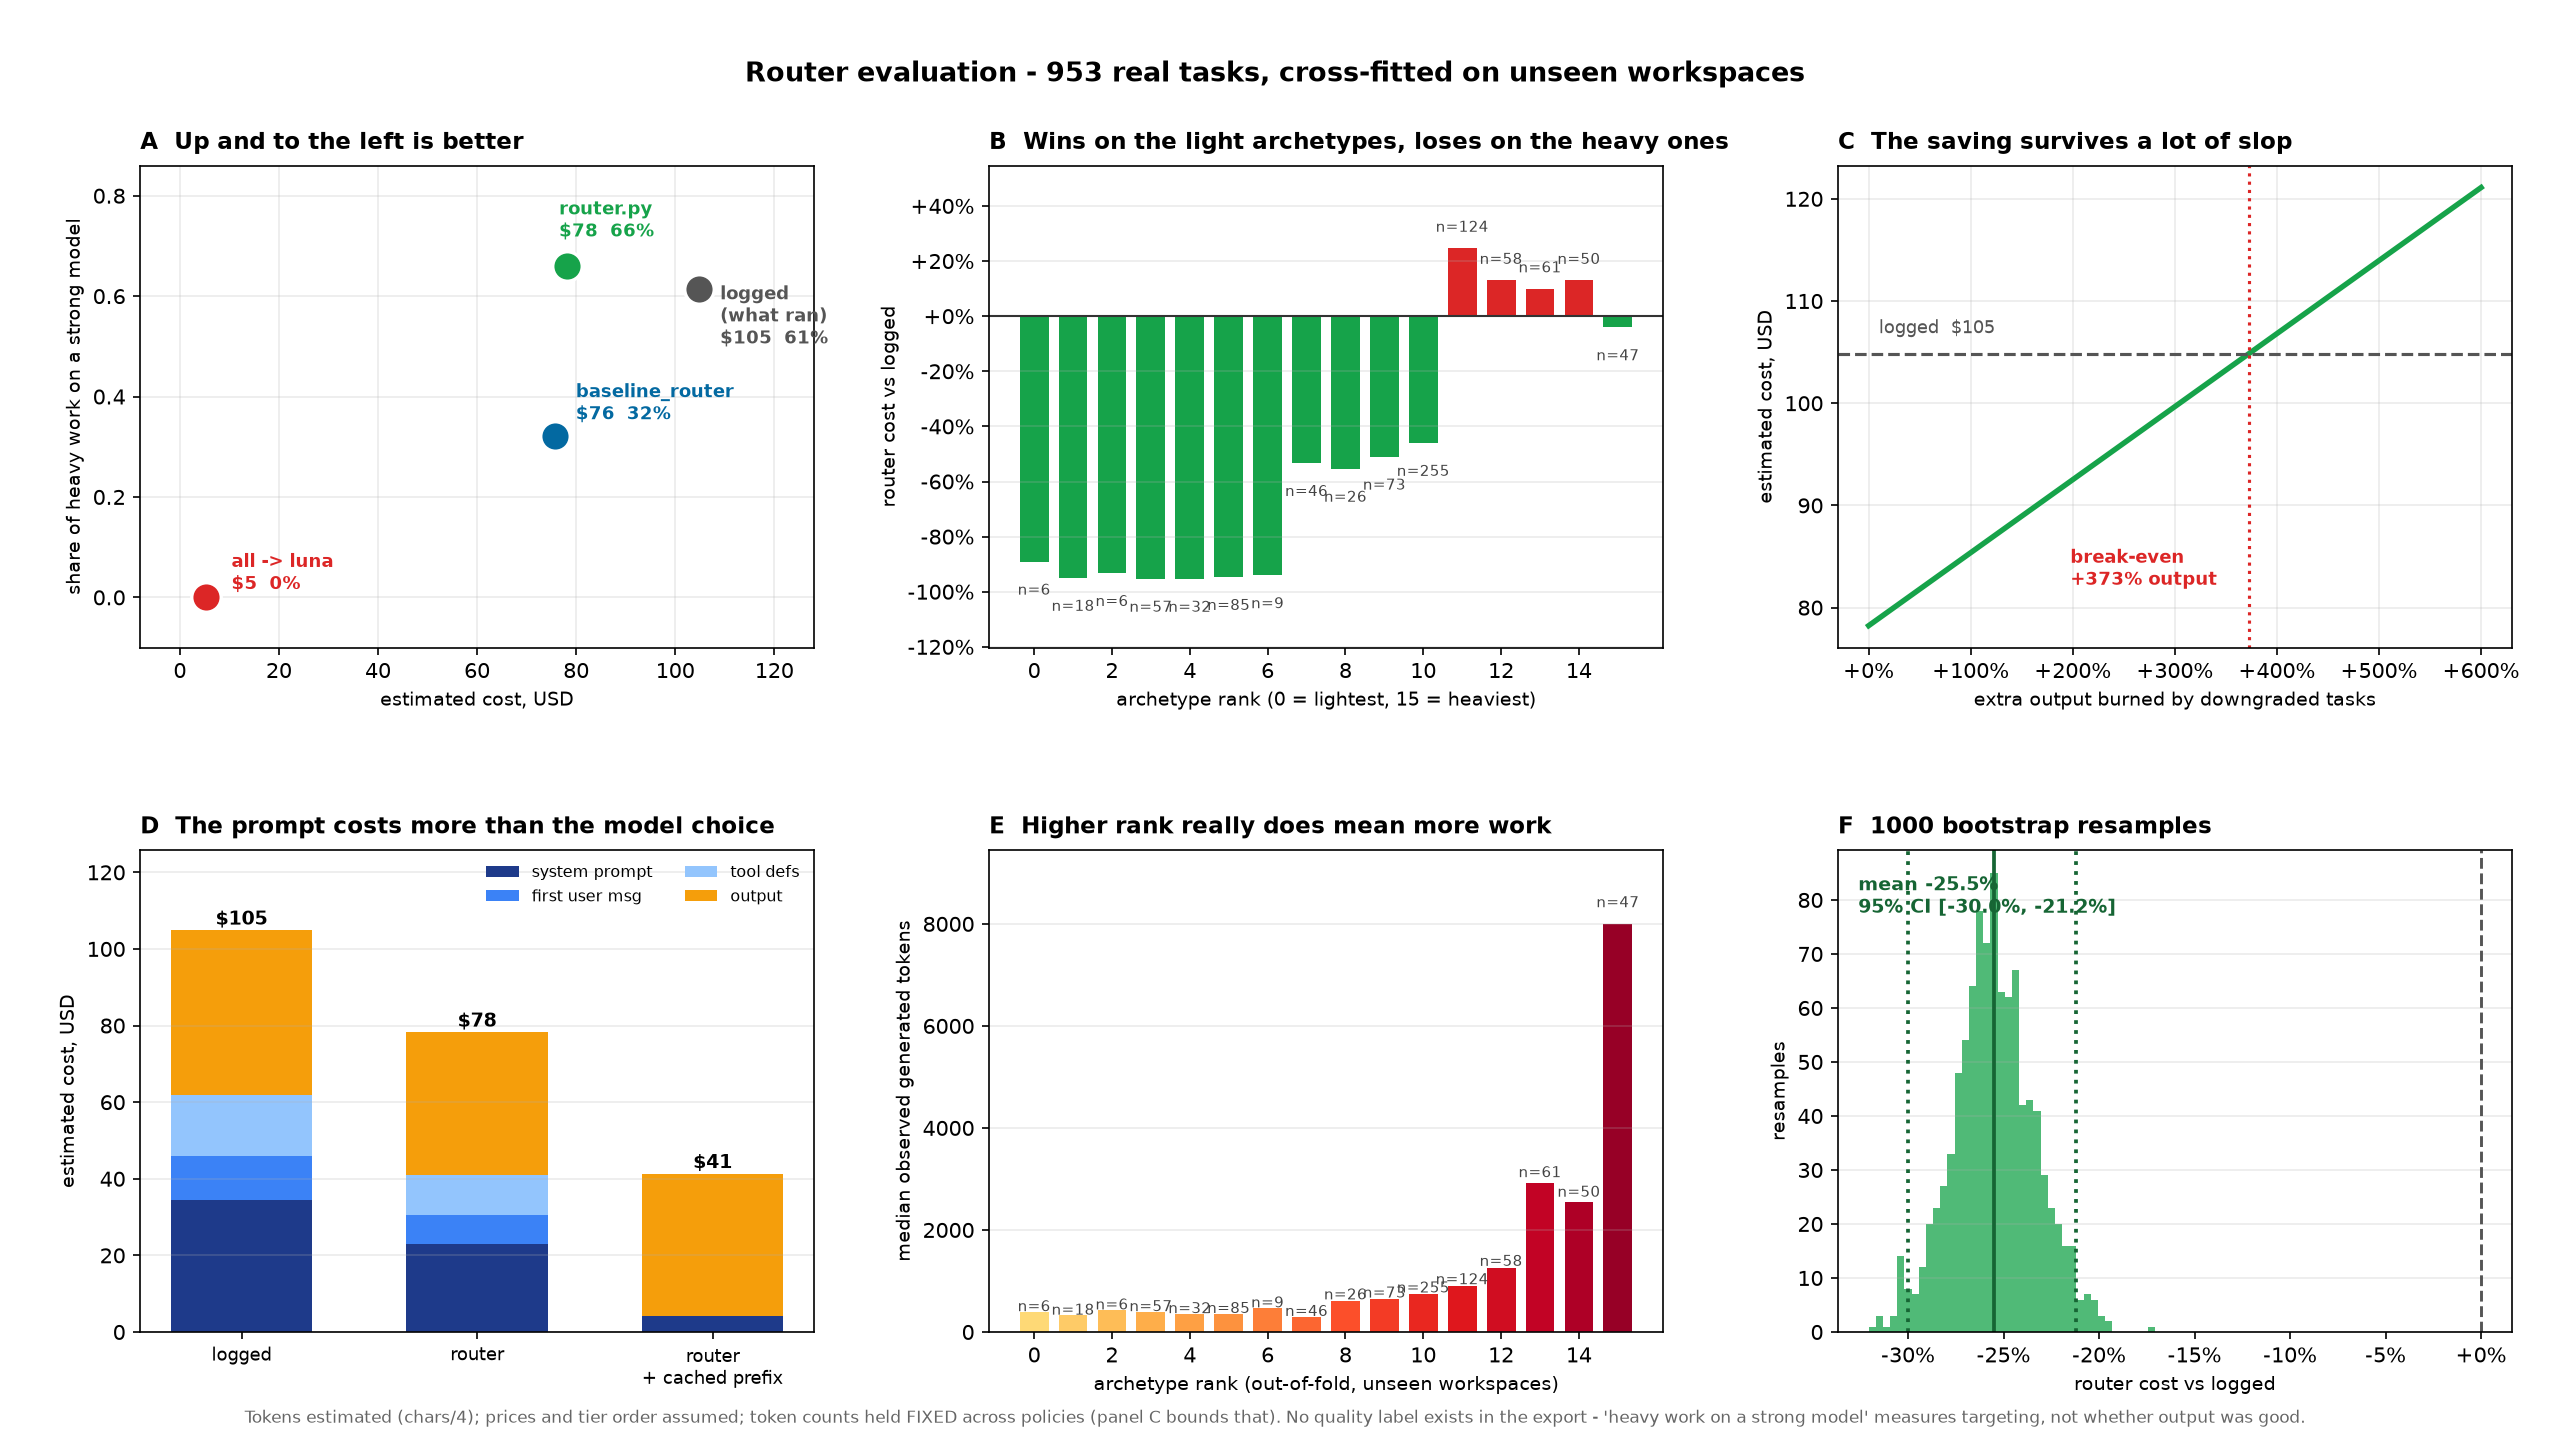
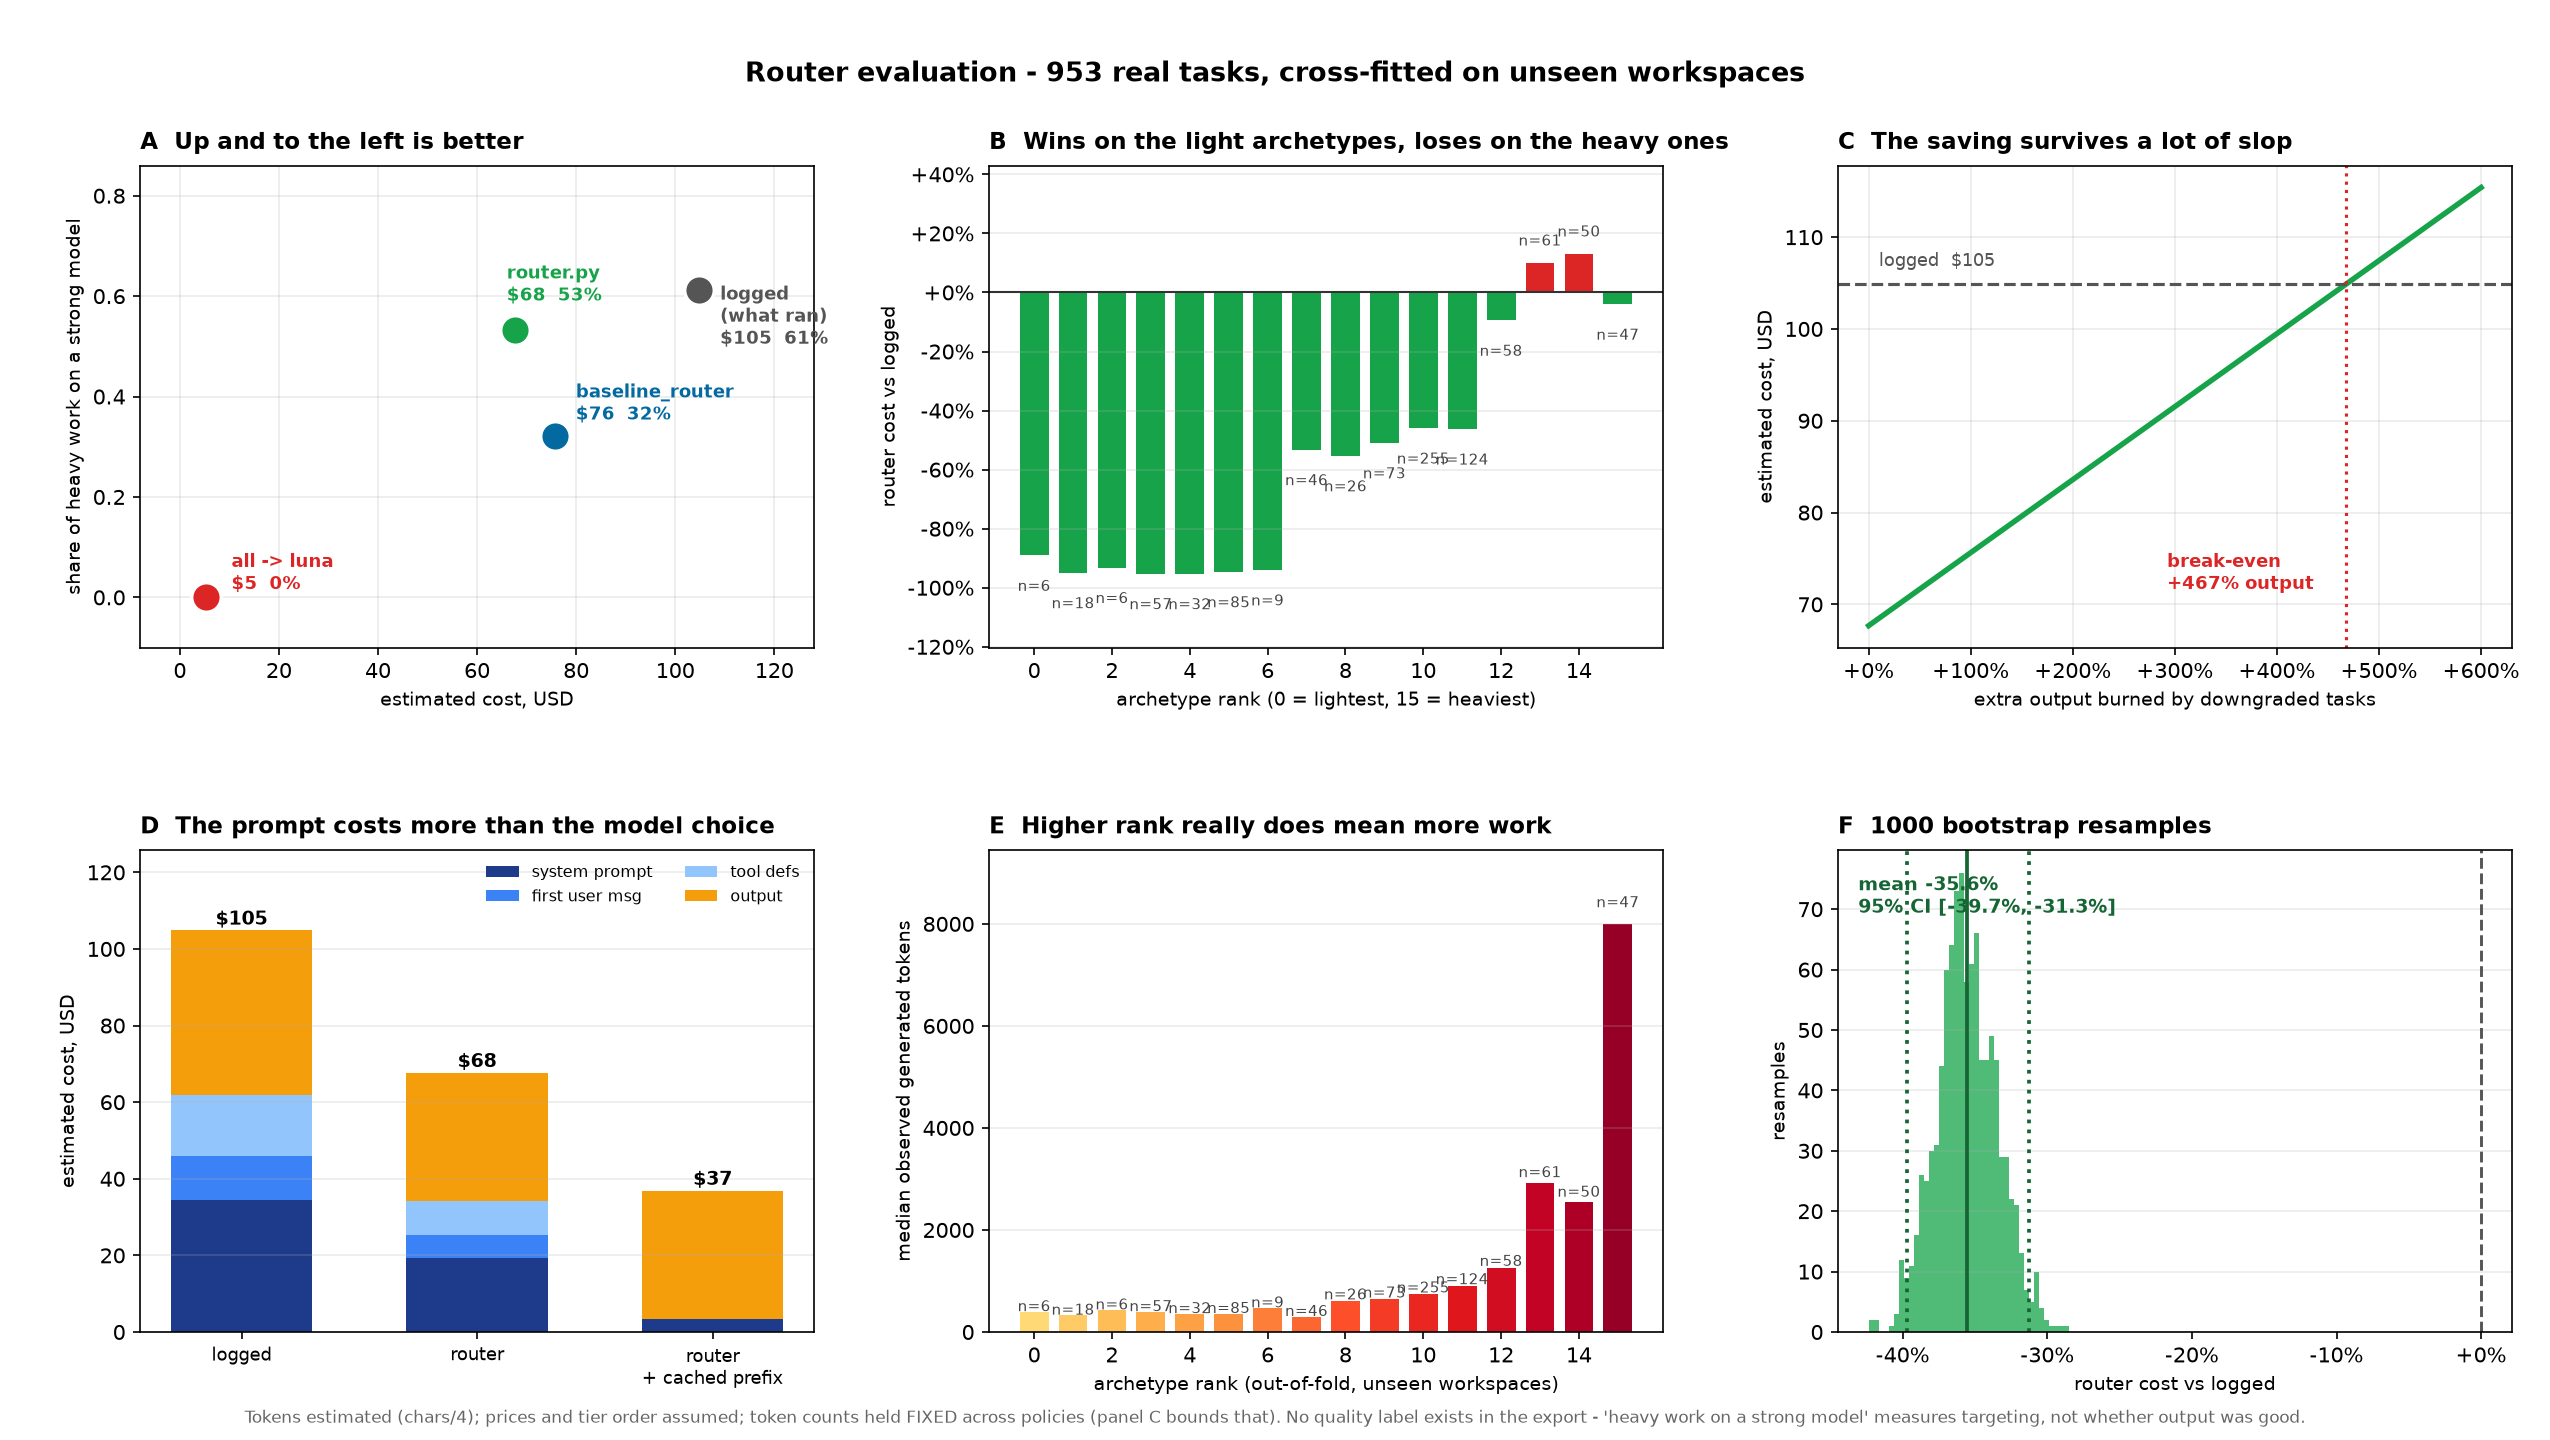
fix: repair plot_evaluation.py, rename features script, refresh charts
Three defects found while auditing the branch for merge:

1. plot_evaluation.py did not run. Rewriting evaluate.py renamed capture_of ->
   capture and crossfit_bands -> crossfit_ranks; plot_router_frontier.py was
   updated for that and this one was not, so it was committed raising
   ImportError. Fixed, and it now derives the top tier via top_used() instead of
   assuming index 1, so it cannot silently mis-score when TIERS changes.

2. results/evaluation.png was stale. It was generated before the four-tier
   table, the boundary revert and the discount fix, so a committed chart showed
   -25.4% / $78 while the committed code produces -35.5% / $67.68. Regenerated.

3. difficulty_features.py was misnamed - a leftover from the supervised
   difficulty model that was dropped. It extracts routing-time features and an
   effort proxy, so it is now extract_features.py. References updated in
   .gitignore and fit_router.py.

Also relabelled the "band" panels in plot_evaluation.py as "rank": the decision
path uses cluster rank directly and the 1-10 band is display-only.

Verified the whole pipeline from an empty results/ directory:
  extract_features -> fit_router -> router -> plot_evaluation -> plot_router_frontier
All five stages run. features.jsonl and router_model.pkl remain gitignored;
neither is needed to read the branch, both regenerate in one command.

KNOWN, NOT FIXED HERE - the shipped configuration is dominated by its own sweep:
[…]

diff --git a/scripts/plot_evaluation.py b/scripts/plot_evaluation.py
@@ -2,10 +2,10 @@
 """Plot what evaluate.py reports. Six panels.
 
     A  cost vs heavy-work capture - the Pareto view, four policies
-    B  per-band cost delta - where the router wins and where it loses
+    B  per-rank cost delta - where the router wins and where it loses
     C  break-even - how much extra output kills the saving
     D  where the money is - input composition vs output, plus cache headroom
-    E  band calibration - does a higher band mean more work?
+    E  rank calibration - does a higher archetype rank mean more work?
     F  bootstrap - the interval, not the point estimate
 
 Recomputed with the same functions evaluate.py uses, so the chart cannot drift
@@ -22,7 +22,8 @@ matplotlib.use("Agg")
 import matplotlib.pyplot as plt
 import numpy as np
 
-from evaluate import BASELINE_SMALL, capture_of, cost_of
+from evaluate import (BASELINE_SMALL, capture, cost_of, heavy_at_cheapest,
+                      top_used)
 from fit_router import K, crossfit_ranks, effort_ranks, load_rows
 from router import load_pricing, price_of, route_one, tier_of
 
@@ -50,6 +51,7 @@ def main():
 
     rank = crossfit_ranks(rows, groups, effort_ranks(tout), K)
     routed = [route_one(r, int(k), pricing)[0] for r, k in zip(rows, rank)]
+    used_top = top_used(routed)   # top tier actually selected, not the top defined
     baseline = [(("claude-sonnet-5" if m.startswith("claude") else "gpt-5.6-luna")
                  if t < BASELINE_SMALL else m) for m, t in zip(logged, tin)]
     allcheap = ["gpt-5.6-luna"] * n
@@ -66,7 +68,7 @@ def main():
            ("all -> luna", allcheap, RED, (12, 4)),
            ("router.py", routed, GREEN, (-4, 14))]
     for name, ms, colr, off in pts:
-        x, y = cost_of(ms, tin, tout, pricing), capture_of(ms, tout)[1]
+        x, y = cost_of(ms, tin, tout, pricing), capture(ms, tout, used_top)
         axA.scatter([x], [y], s=200, color=colr, zorder=5,
                     edgecolor="white", linewidth=1.6)
         axA.annotate("{}\n${:.0f}  {:.0%}".format(name, x, y), (x, y),
@@ -80,7 +82,7 @@ def main():
                   fontweight="bold", loc="left", pad=8)
     axA.grid(alpha=0.25)
 
-    # ---------------- B: per-band delta ----------------
+    # ---------------- B: per-rank delta ----------------
     axB = fig.add_subplot(gs[0, 1])
     bands, deltas, counts = [], [], []
     for b in range(K):
@@ -164,7 +166,7 @@ def main():
                   fontsize=11, fontweight="bold", loc="left", pad=8)
     axD.grid(axis="y", alpha=0.25)
 
-    # ---------------- E: band calibration ----------------
+    # ---------------- E: rank calibration ----------------
     axE = fig.add_subplot(gs[1, 1])
     bs, meds, ns = [], [], []
     for b in range(K):
@@ -221,7 +223,7 @@ def main():
     print("wrote {}".format(a.out))
     print("cost {:+.1%} [{:+.1f}%, {:+.1f}%]   capture {:.1%}"
           .format(cost_of(routed, tin, tout, pricing) / c_log - 1, lo, hi,
-                  capture_of(routed, tout)[1]))
+                  capture(routed, tout, used_top)))
 
 
 if __name__ == "__main__":

diff --git a/scripts/extract_features.py b/scripts/extract_features.py
@@ -25,7 +25,7 @@ LEAKAGE
   items. Those features are dropped unless --allow-leaky is passed.
 
 Usage:
-    python scripts/difficulty_features.py export_linked/ -o results/features.jsonl
+    python scripts/extract_features.py export_linked/ -o results/features.jsonl
 """
 import argparse
 import hashlib
